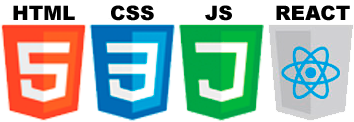
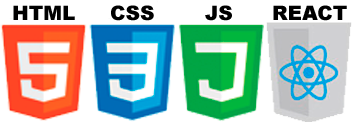
feat: add color block

Changed region(s): [[0.7458, 0.0246, 1.0, 1.0]]

diff --git a/style.css b/style.css
@@ -565,6 +565,11 @@ p {
   width: 100%;
   padding: 3.75rem 0 2.5rem;
 }
+@media (max-width: 992px) {
+  .header {
+    padding: 2.5rem 0;
+  }
+}
 @media (max-width: 768px) {
   .header {
     position: absolute;
@@ -589,7 +594,7 @@ p {
   display: block;
   width: 13.125rem;
   min-height: 3.75rem;
-  top: -28%;
+  top: -23%;
   right: 4%;
   background-image: url("./assets/img/html+css+js+react.png");
   background-repeat: no-repeat;
@@ -904,6 +909,26 @@ p {
 
 .courses__text {
   font-weight: 500;
+}
+
+.color {
+  display: flex;
+  align-items: center;
+  padding: 1.25rem 3.125rem;
+}
+
+.color__text {
+  margin-right: 0.625rem;
+  color: #ffffff;
+}
+
+.color__change {
+  width: 4.375rem;
+  cursor: pointer;
+  -webkit-appearance: none;
+  border: none;
+  outline: none;
+  background-color: transparent;
 }
 
 /*# sourceMappingURL=style.css.map */

diff --git a/index.html b/index.html
@@ -49,6 +49,16 @@
               alt="avatar"
             />
           </div>
+          <div class="color">
+            <label class="color__text" for="color">Select color:</label>
+            <input
+              id="color"
+              class="color__change"
+              type="color"
+              name="color"
+              value="#3a478e"
+            />
+          </div>
           <section class="section contacts">
             <h2 class="title title--light contacts__title">contacts</h2>
             <ul class="contacts__list">

diff --git a/styles/layout/header.scss b/styles/layout/header.scss
@@ -1,6 +1,9 @@
 .header {
   width: 100%;
   padding: rem(60) 0 rem(40);
+  @include media-large {
+    padding: rem(40) 0;
+  }
   @include media-medium {
     position: absolute;
     top: 0;
@@ -18,7 +21,7 @@
     display: block;
     width: rem(210);
     min-height: rem(60);
-    top: -28%;
+    top: -23%;
     right: 4%;
     background-image: url("./assets/img/html+css+js+react.png");
     background-repeat: no-repeat;

diff --git a/script.js b/script.js
@@ -1,0 +1,14 @@
+window.addEventListener("load", startUp);
+
+function startUp() {
+  const color = document.querySelector("#color");
+
+  function changeColor() {
+    const html = document.querySelector("html");
+    html.style.setProperty("--box-color", color.value);
+  }
+
+  color.addEventListener("input", changeColor);
+  color.addEventListener("change", changeColor);
+  color.select();
+}

diff --git a/styles/components/color.scss b/styles/components/color.scss
@@ -1,0 +1,18 @@
+.color {
+  @include flex(none, center);
+  padding: rem(20) rem(50);
+}
+
+.color__text {
+  margin-right: rem(10);
+  color: $main-color;
+}
+
+.color__change {
+  width: rem(70);
+  cursor: pointer;
+  -webkit-appearance: none;
+  border: none;
+  outline: none;
+  background-color: transparent;
+}

diff --git a/styles/abstracts/_template.scss b/styles/abstracts/_template.scss
@@ -1,13 +1,9 @@
-// Image
-
 %image-cover {
   width: 100%;
   max-height: 100%;
   object-fit: contain;
   object-position: center;
 }
-
-// Line
 
 %line {
   content: "";
@@ -19,8 +15,6 @@
   height: 96%;
   background-color: $title-color;
 }
-
-// Circle
 
 %circle {
   content: "";

diff --git a/styles/style.scss b/styles/style.scss
@@ -21,3 +21,4 @@
 @import "components/experience";
 @import "components/education";
 @import "components/courses";
+@import "components/color";
